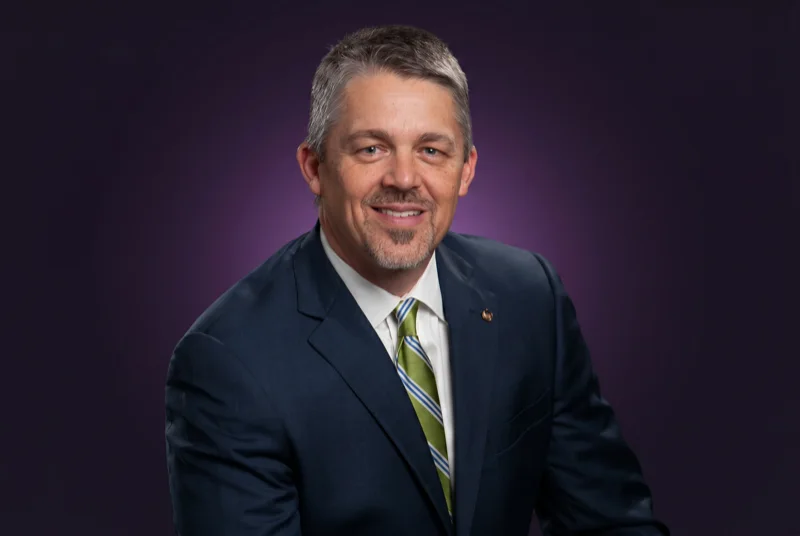
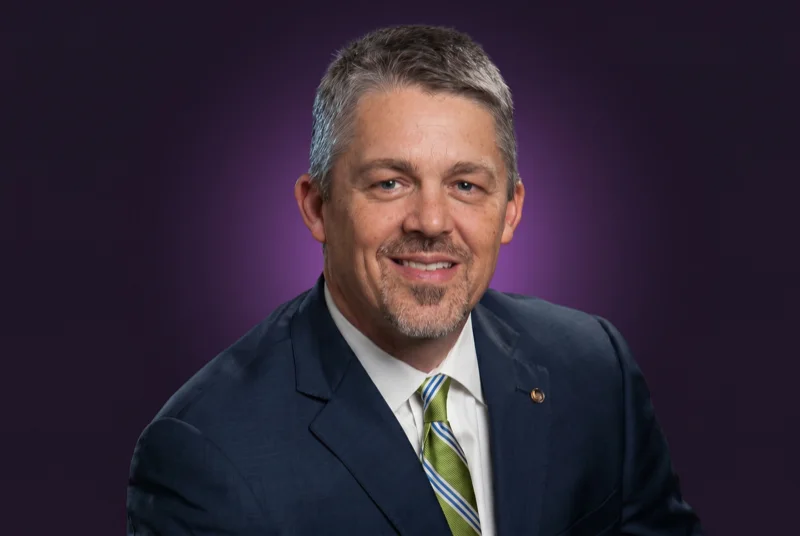
BMC testimonials: swap in updated Dan headshot + custom Thomas video poster.
DAN: replaced dan_tripp.webp with the newer headshot from the folder (re-encoded 800px WebP). Bumped the img src to dan_tripp.webp?v=2 to bust the browser cache (same filename).

THOMAS VIDEO POSTER:
- Added thomas_petersen_thumb.webp (the 16:9 tuxedo thumbnail, 1000px WebP, 22KB) as a custom .t-video-poster over the iframe — covers Vimeo's own thumbnail until first play.
- New .t-video-poster (absolute, cover, z-index 1, fades). .t-video-thumb.has-played .t-video-poster fades it out for good once the video starts.
- Moved the is-playing state class from the toggle button to .t-video-thumb so the poster + play circle + pause symbol all respond to it; added a one-way .has-played class in JS (set on first play, never removed) so the poster doesn't reappear when the video is paused mid-way.

Cache-bust: css v=59, js v=12

diff --git a/bmc.html b/bmc.html
@@ -230,7 +230,7 @@
 <link rel="preload" as="image" href="DH_BMC_stage_mobile.webp" type="image/webp" media="(max-width: 880px)" fetchpriority="high">
 <link rel="preload" as="image" href="DH_BMC_stage_background.webp" type="image/webp" media="(min-width: 881px)" fetchpriority="high">
 <link href="https://fonts.googleapis.com/css2?family=Inter:wght@300;400;500;600;700;900&display=swap" rel="stylesheet">
-<link rel="stylesheet" href="bmc.css?v=58">
+<link rel="stylesheet" href="bmc.css?v=59">
 </head>
 <body>
 
@@ -583,6 +583,7 @@
             allow="autoplay; fullscreen; picture-in-picture; clipboard-write; encrypted-media; web-share"
             allowfullscreen
             title="Thomas Petersen &mdash; BMC Testimonial"></iframe>
+          <img class="t-video-poster" src="thomas_petersen_thumb.webp" alt="Thomas Petersen" width="1000" height="558" decoding="async" />
           <button class="t-video-toggle" type="button" aria-label="Play or pause Thomas Petersen&rsquo;s testimonial">
             <span class="t-play t-play--lg" aria-hidden="true"><svg viewBox="0 0 24 24" fill="#0a0a0a"><polygon points="6,4 20,12 6,20"/></svg></span>
             <span class="t-pause" aria-hidden="true"><svg viewBox="0 0 24 24" fill="currentColor"><rect x="6" y="5" width="4" height="14" rx="1"/><rect x="14" y="5" width="4" height="14" rx="1"/></svg></span>
@@ -672,7 +673,7 @@
 
       <article class="t-quote">
         <div class="t-quote-photo">
-          <img class="t-quote-img" src="dan_tripp.webp" alt="Dan Tripp" width="800" height="550" loading="lazy" decoding="async" />
+          <img class="t-quote-img" src="dan_tripp.webp?v=2" alt="Dan Tripp" width="800" height="550" loading="lazy" decoding="async" />
           <span class="t-quote-chip">Advocacy</span>
         </div>
         <div class="t-quote-content">
@@ -1087,7 +1088,7 @@
 </footer>
 
 <script src="https://player.vimeo.com/api/player.js" defer></script>
-<script src="bmc.js?v=11" defer></script>
+<script src="bmc.js?v=12" defer></script>
 
 </body>
 </html>

diff --git a/bmc.js b/bmc.js
@@ -127,28 +127,31 @@
 (function () {
   // Pair each player iframe with its full-area toggle button. Clicking the
   // toggle plays if paused, pauses if playing (controls=0 has no native
-  // click-to-pause). The .is-playing class fades the cyan visual.
-  const pair = (iframe, toggle) => {
+  // click-to-pause). State classes go on `el`: .is-playing swaps the play/
+  // pause visual; .has-played (one-way) fades the custom poster away.
+  const pair = (iframe, toggle, el) => {
     if (!iframe || !toggle) return;
+    const target = el || toggle;
     const player = new window.Vimeo.Player(iframe);
     toggle.addEventListener('click', () => {
       player.getPaused()
         .then(paused => (paused ? player.play() : player.pause()))
         .catch(() => {});
     });
-    player.on('play',  () => toggle.classList.add('is-playing'));
-    player.on('pause', () => toggle.classList.remove('is-playing'));
-    player.on('ended', () => toggle.classList.remove('is-playing'));
+    player.on('play',  () => { target.classList.add('is-playing'); target.classList.add('has-played'); });
+    player.on('pause', () => target.classList.remove('is-playing'));
+    player.on('ended', () => target.classList.remove('is-playing'));
   };
 
   const init = () => {
     if (!window.Vimeo || !window.Vimeo.Player) return false;
     // VSL (What's Inside)
     pair(document.getElementById('vsl-player'), document.querySelector('[data-vsl-play]'));
-    // Video-grid testimonial embeds — toggle lives in the same card.
+    // Video-grid testimonial embeds — state class lives on the thumbnail so
+    // the poster + play/pause icons all respond.
     document.querySelectorAll('.t-video-iframe').forEach(iframe => {
-      const card = iframe.closest('.t-video');
-      pair(iframe, card && card.querySelector('.t-video-toggle'));
+      const thumb = iframe.closest('.t-video-thumb');
+      pair(iframe, thumb && thumb.querySelector('.t-video-toggle'), thumb);
     });
     return true;
   };

diff --git a/bmc.css b/bmc.css
@@ -1658,9 +1658,10 @@
     filter: drop-shadow(0 2px 6px rgba(0, 0, 0, 0.55));
   }
   .t-pause svg { width: 40px; height: 40px; display: block; }
-  /* While playing: hide the play circle, show the cyan pause symbol. */
-  .t-video-toggle.is-playing .t-play { opacity: 0; }
-  .t-video-toggle.is-playing .t-pause { opacity: 1; }
+  /* While playing: hide the play circle, show the cyan pause symbol. (Class
+     lives on .t-video-thumb so the poster + icons all respond.) */
+  .t-video-thumb.is-playing .t-play { opacity: 0; }
+  .t-video-thumb.is-playing .t-pause { opacity: 1; }
   /* Embedded Vimeo player fills the thumbnail (same approach as the VSL). */
   .t-video-iframe {
     position: absolute;
@@ -1670,6 +1671,19 @@
     border: 0;
     z-index: 1;
   }
+  /* Custom poster — covers Vimeo's own thumbnail until the video is first
+     played, then fades away to reveal the live player. */
+  .t-video-poster {
+    position: absolute;
+    inset: 0;
+    width: 100%;
+    height: 100%;
+    object-fit: cover;
+    display: block;
+    z-index: 1;
+    transition: opacity 0.4s ease;
+  }
+  .t-video-thumb.has-played .t-video-poster { opacity: 0; pointer-events: none; }
   .t-video-meta { padding-top: 18px; }
   .t-video-name {
     font-family: 'Inter', sans-serif;
